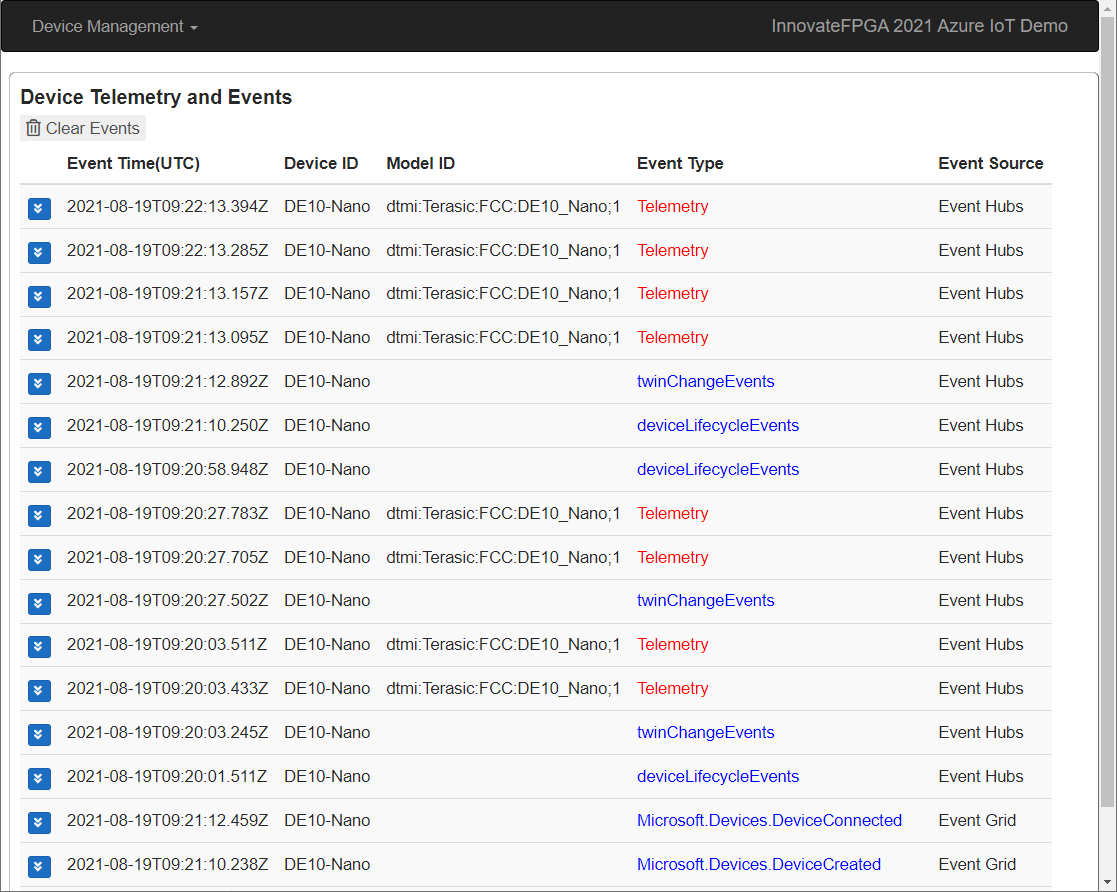
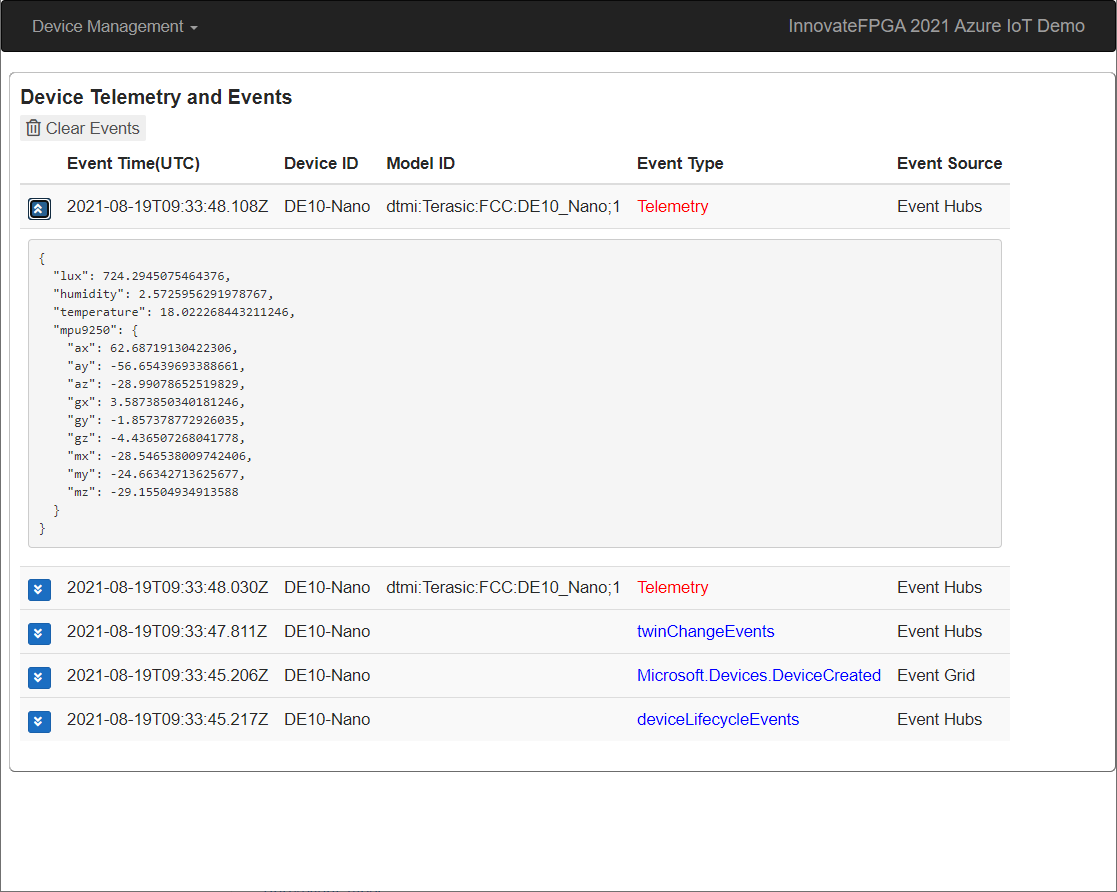
Update IoT Central docs

diff --git a/SaaS-Provision.md b/SaaS-Provision.md
@@ -1,0 +1,98 @@
+# Connecting DE10-Nano to your IoT Central Application
+
+<< Draft : Ready for review>>
+
+In order to connect your DE10-Nano to Azure IoT Hub, you must provision your DE10-Nano.  Provisioning is done through Device Provisioning Service (DPS).
+Once your DE10-Nano is provisioned, it can connect to IoT Hub.  Steps involved in connecting DE10-Nano are :
+
+1. Create a device instance (or Device ID) for your DE10-Nano
+1. Configure your DE10-Nano with DPS provisioning information
+1. Run reference device application
+
+## 1. Generate Device Key for your DE10-Nano
+
+Your IoT Central application is pre-configured for DE10-Nano, using IoT Plug and Play Device Model.  We will create a new device identity in IoT Central application.
+
+1. Navigate to your IoT Central Application
+1. Navigate to `Devices` page  
+
+    Click `Devices`, then click `FPGA Cloud Connectivity Kit`
+
+    ![IOTC01](images/IoTC-01.png)
+
+1. Create a new device
+
+    Enter `Device name` and `Device ID` (they can be same), then select `FPGA Cloud Connectivity Kit` from the list for Device Template.  
+    Click `Create` to create a new device for your DE10-Nano.
+
+    |Setting  |Description  |Example  |
+    |---------|---------|---------|
+    |Device Name     | End user friendly name appears in UI        | DE10-Nano         |
+    |Device ID     | Device Identity used for connection           | DE10-Nano         |
+    |Device Template     | Select FPGA Cloud Connectivity Kit         |         |
+    |Simlate this device?     | If you do not have a device, IoT Central can simulate device telemetry etc.  Select `No` since you are connecting real device.         |         |
+
+    ![IOTC02](images/IoTC-02.png)
+
+1. Confirm you have a new device for your DE10-Nano
+
+    ![IOTC03](images/IoTC-03.png)
+
+    > [!NOTE]  
+    > Device is in `Registered` state.
+
+1. Click on Device Name to open device's detail page, then click `Connect`  
+
+    ![IOTC04](images/IoTC-04.png)
+
+1. You can see information to provision your DE10-Nano to IoT Central application  
+
+    ![IOTC05](images/IoTC-05.png)
+
+## 2. Configure your DE10-Nano with DPS provisioning information
+
+In order to provision your DE10-Nano through DPS, the device application requires following information.
+
+| Information     | Description  | Example     |
+|-----------------|--------------|-------------|
+| ID Scope        | ID Scope is an identifier of your DPS instance.  With ID Scope, device application can communicate to your DPS instance.  | 0ne00123456 |
+| Device ID | Name of the enrollment.  By default, Registration ID is used as Device ID in IoT Hub. | DE10-Nano   |
+| Key   | Take either Primary Key or Secondary Key to provision your DE10-Nano. |             |
+
+You can pass these information through environment variables to Intel's reference device application.
+
+Click `Copy` buttons for each item and set environment variables.
+
+Example :
+
+```bash
+export IOTHUB_DEVICE_SECURITY_TYPE='DPS'
+export IOTHUB_DEVICE_DPS_ID_SCOPE='0ne0037C442'
+export IOTHUB_DEVICE_DPS_DEVICE_ID='DE10-Nano'
+export IOTHUB_DEVICE_DPS_DEVICE_KEY='G4UpURCu2/SLATZmsq43cYQGEn48wNLGsYh4rZMWKwM='
+```
+
+## 3. Run reference device application
+
+Execute main.py in DE10-Nano with :
+
+```bash
+python3.7 main.py
+```
+
+Once your DE10-Nano is provisioned and connected, you should see device status change to `Provisioned` status.  You can also see telemetry from your DE10-Nano.
+
+![IOTC06](images/IoTC-06.png)
+
+Wait for a minute or so, you should start seeing telemetry data in `Device Data` page.
+
+![IOTC07](images/IoTC-07.png)
+
+## Completed
+
+Congratulations.  You are now connect to IoT Hub and you can visualize device events from IoT Hub and telemetry from your DE10-Nano.
+
+## Next Step
+
+- Connecting IoT Edge module to sample IoT solution : TBD : reference to Kawai-san's documentation?
+- [Back to README](README.md)

diff --git a/SaaS-Deploy.md b/SaaS-Deploy.md
@@ -17,13 +17,16 @@ Each instance of IoT Central deployment is called `IoT Central Application`.  Fo
 
 ![SaaS01](images/SaaS-01.png)
 
-| Setting        | Description                                                                                                                                                                    | Example    |
-|----------------|--------------------------------------------------------------------------------------------------------------------------------------------------------------------------------|------------|
-| Subscription   | Select your Azure subscription from the list.                                                                                                                                  |            |
-| Resource Group | Resource group is a way to organize resources (services).  To learn more visit [here](/azure/azure-resource-manager/management/manage-resource-groups-portal).  Create new resource group by clicking `Create new`.| MyInnovateFPGAGroup           |
+| Setting        | Description  | Example    |
+|----------------|--------------|------------|
+| Subscription   | Select your Azure subscription from the list. |            |
+| Resource Group | Resource group is a way to organize resources (services).  To learn more visit [here](/azure/azure-resource-manager/management/manage-resource-groups-portal).  Create new resource group by clicking `Create new`.| MyInnovateFPGAIoTC           |
 | Region         | Select nearest location.  To learn more, visit [here](https://azure.microsoft.com/global-infrastructure/geographies/#overview).                                                                                                                                                       | West US 2 for Pacific Timezone           |
-| Iot Central Application Nam      | Default name given is with 'InnovateFPGA-` prefix and random strings (E.g. InnovateFPGA-&lt;abx73&gt;).  Accept default name or specify your own unique name.  Since IoT Central uses this name for URL, please make sure you provide unique name without space. | MyInnovateFPGA-IoTC01 |
+| Iot Central Application Nam      | Default name given is with 'InnovateFPGA-` prefix and random strings (E.g. InnovateFPGA-&lt;abx73&gt;).  Accept default name or specify your own unique name.  Since IoT Central uses this name for URL, please make sure you provide unique name without space or special characters. | MyInnovateFPGA-IoTC01 |
 | IoT Central Location    | Location (region/country) to deploy IoT Central application.  |            |
+
+> [!NOTE]  
+> For IoT Central, `Region` setting does not really matter.  The new IoT Central application will be deployed based on `IoT Central Location` setting.
 
 ## 3. Review and start IoT Central deployment
 
@@ -42,7 +45,7 @@ Once the deployment is completed, navigate to the sample Web Application to conf
 
     ![PaaS04](images/SaaS-04.png)
 
-1. Open a new browser tab to access your solution
+1. Open a new browser tab to access your new IoT Central application
 
     ![SaaS05](images/SaaS-05.png)
 
@@ -51,5 +54,5 @@ Once the deployment is completed, navigate to the sample Web Application to conf
 
 ## Next Step
 
-[Provision DE10-Nano](SaaS-Instruction.md) to your IoT Central to interact.  
-[Back to README](README.md)
+- [Provision DE10-Nano](SaaS-Provision.md) to your IoT Central to interact.  
+- [Back to README](README.md)

diff --git a/PaaS.md b/PaaS.md
@@ -16,6 +16,40 @@ This solution is consist of 3 domains.
 
 ![Solution Diagram](images/solution-diagram.png)
 
+## IoT Device and Data domain
+
+The core of IoT Solution is provisioning, connecting, and interacting with IoT devices.  IoT Devices (DE10-Nano) sends data as well as accepts settings (Threshold) from Cloud.  Depending on your use cases, you may want to model more functionalities so you can send command from your solution, or trigger alerts based on the computation results from FPGA.
+
+IoT Plug and Play provides a language to define device interaction model.
+
+In typical IoT use cases involves following steps :
+
+- Provision device
+- Connect device
+- Accept incoming data (Data Ingestion)
+- Process data
+- Take action
+
+### Provision Device
+
+Before you connect your DE10-Nano to the solution, you must prepare the device.  Device provisioning involves :
+
+- Registering device to the solution
+- Configure device authentication mechanism
+- Configure the device with required settings
+
+Provisioning IoT devices is similar to registering your smartphone to your carrier.  Your phone must be known to the carrier network, associated with your contracts, enabled/disabled features based on your contract, and unique phone number must be assigned.  These information may be programmed in your phone or through SIM card.  In the backend, your carrier manages contract information, phone number etc.
+
+Device Provisioning Service (DPS) provides functionalities to provision your IoT devices to your IoT solution.  DPS uses `enrollment` information to identify the device, authenticate, then assign to the right Azure IoT Hub.
+
+### Connect Device
+
+Once your device is provisioned, the device can now connect to Azure IoT Hub.  Azure IoT Hub act as a gateway between Cloud (Azure) and public internet.  IoT Hub provides bi-directional communication over MQTT protocol for secure communication.  The device can send data such as Sensor data from RFS, as well as receive data from Cloud.  Upstream data is often called Device to Cloud messages (D2C).  Downstream data has 3 types.  1) Cloud to Device message (C2D), 2) Device Twin, and 3) Device Command (or method).
+
+Device Twin is used to communicate settings from Cloud to devices, which is called `Desired Property`, or `Writable Property` in Digital Twin/IoT Plug and PLay world.  Device Twin can also be used to communicate properties of the device to cloud, which is called `Reported Property`, or `Property` in Digital Twin/IoT Plug and Play world.  IoT Hub provides storage space for each device so that these settings are not lost.  The communication is asynchronous way.
+
+Sometimes Cloud needs to communicate with the device and needs to ensure the communication is received.  This type of activities require `synchronous` communication.  In other words, the sender (Cloud application) sends data, and the receiver (device) must respond.  The requester needs to know if the receiver received data, and processed it or not.  This communication can be achieved using Device Method, or Command in Digital Twin/IoT Plug and Play world.
+
 ## Next Step
 
-[Back to README](README.md)
+- [Back to README](README.md)

diff --git a/README.md b/README.md
@@ -16,11 +16,11 @@ This page describes how to deploy IoT solution in Azure using Azure Resource Man
 Microsoft provides Platform as a Service (PaaS) as well as Software as a Service (SaaS).  Depending on your needs, you may choose to deploy one of two or both.  
 
 - [Deploy PaaS solution](PaaS-Deploy.md) : IoT Hub based sample IoT solution  
-  - [Provision DE10-Nano](PaaS-Instruction.md) to the Sample IoT Solution
-  - PaaS : [Technical Deep Dive](PaaS.md)
+  - [Provision DE10-Nano](PaaS-Provision.md) to the Sample IoT Solution
+  - PaaS : [Technical Deep Dive](PaaS-DeepDive.md)
 
 - [Deploy SaaS solution](SaaS-Deploy.md) : Azure IoT Central pre-configured application
-  - [Provision DE10-Nano](SaaS-Instruction.md) to your IoT Central Application
+  - [Provision DE10-Nano](SaaS-Provision.md) to your IoT Central Application
 
 ## Resources
 

diff --git a/PaaS-Deploy.md b/PaaS-Deploy.md
@@ -12,7 +12,7 @@ This sample solution is built with 6 Azure IoT Platform services.
 - Azure [SignalR](https://azure.microsoft.com/services/signalr-service/) : To feed real-time data to the web application.
 - [IoT Plug and Play](https://aka.ms/iotpnp) enabled
 
-Click [here](PaaS.md) to learn more in details.
+Click [here](PaaS-DeepDive.md) to learn more in details.
 
 With this sample solution, you can perform basic IoT operations:
 
@@ -82,5 +82,5 @@ Once the deployment is completed, navigate to the sample Web Application to conf
 
 ## Next Step
 
-- [Provision DE10-Nano](PaaS-Instruction.md) to your IoT Solution to interact with DE10-Nano.  
+- [Provision DE10-Nano](PaaS-Provision.md) to your IoT Solution to interact with DE10-Nano.  
 - [Back to README](README.md)

diff --git a/PaaS-Provision.md b/PaaS-Provision.md
@@ -74,6 +74,9 @@ Once your DE10-Nano is provisioned and connected, you should see device events s
 
 ![DPS05](images/DPS-05.png)
 
+> [!TIP]  
+> You can see details of events and telemetry by clicking the blue button on the left of each row.
+
 Learn more about Device Events from IoT Hub : <https://docs.microsoft.com/en-us/azure/iot-hub/iot-hub-event-grid#event-types>
 
 ## Completed
@@ -82,5 +85,6 @@ Congratulations.  You are now connect to IoT Hub and you can visualize device ev
 
 ## Next Step
 
-- [Deep Dive on sample IoT solution](PaaS.md)
+- Connecting IoT Edge module to sample IoT solution : TBD : reference to Kawai-san's documentation?
+- [Deep Dive on sample IoT solution](PaaS-DeepDive.md)
 - [Back to README](README.md)
